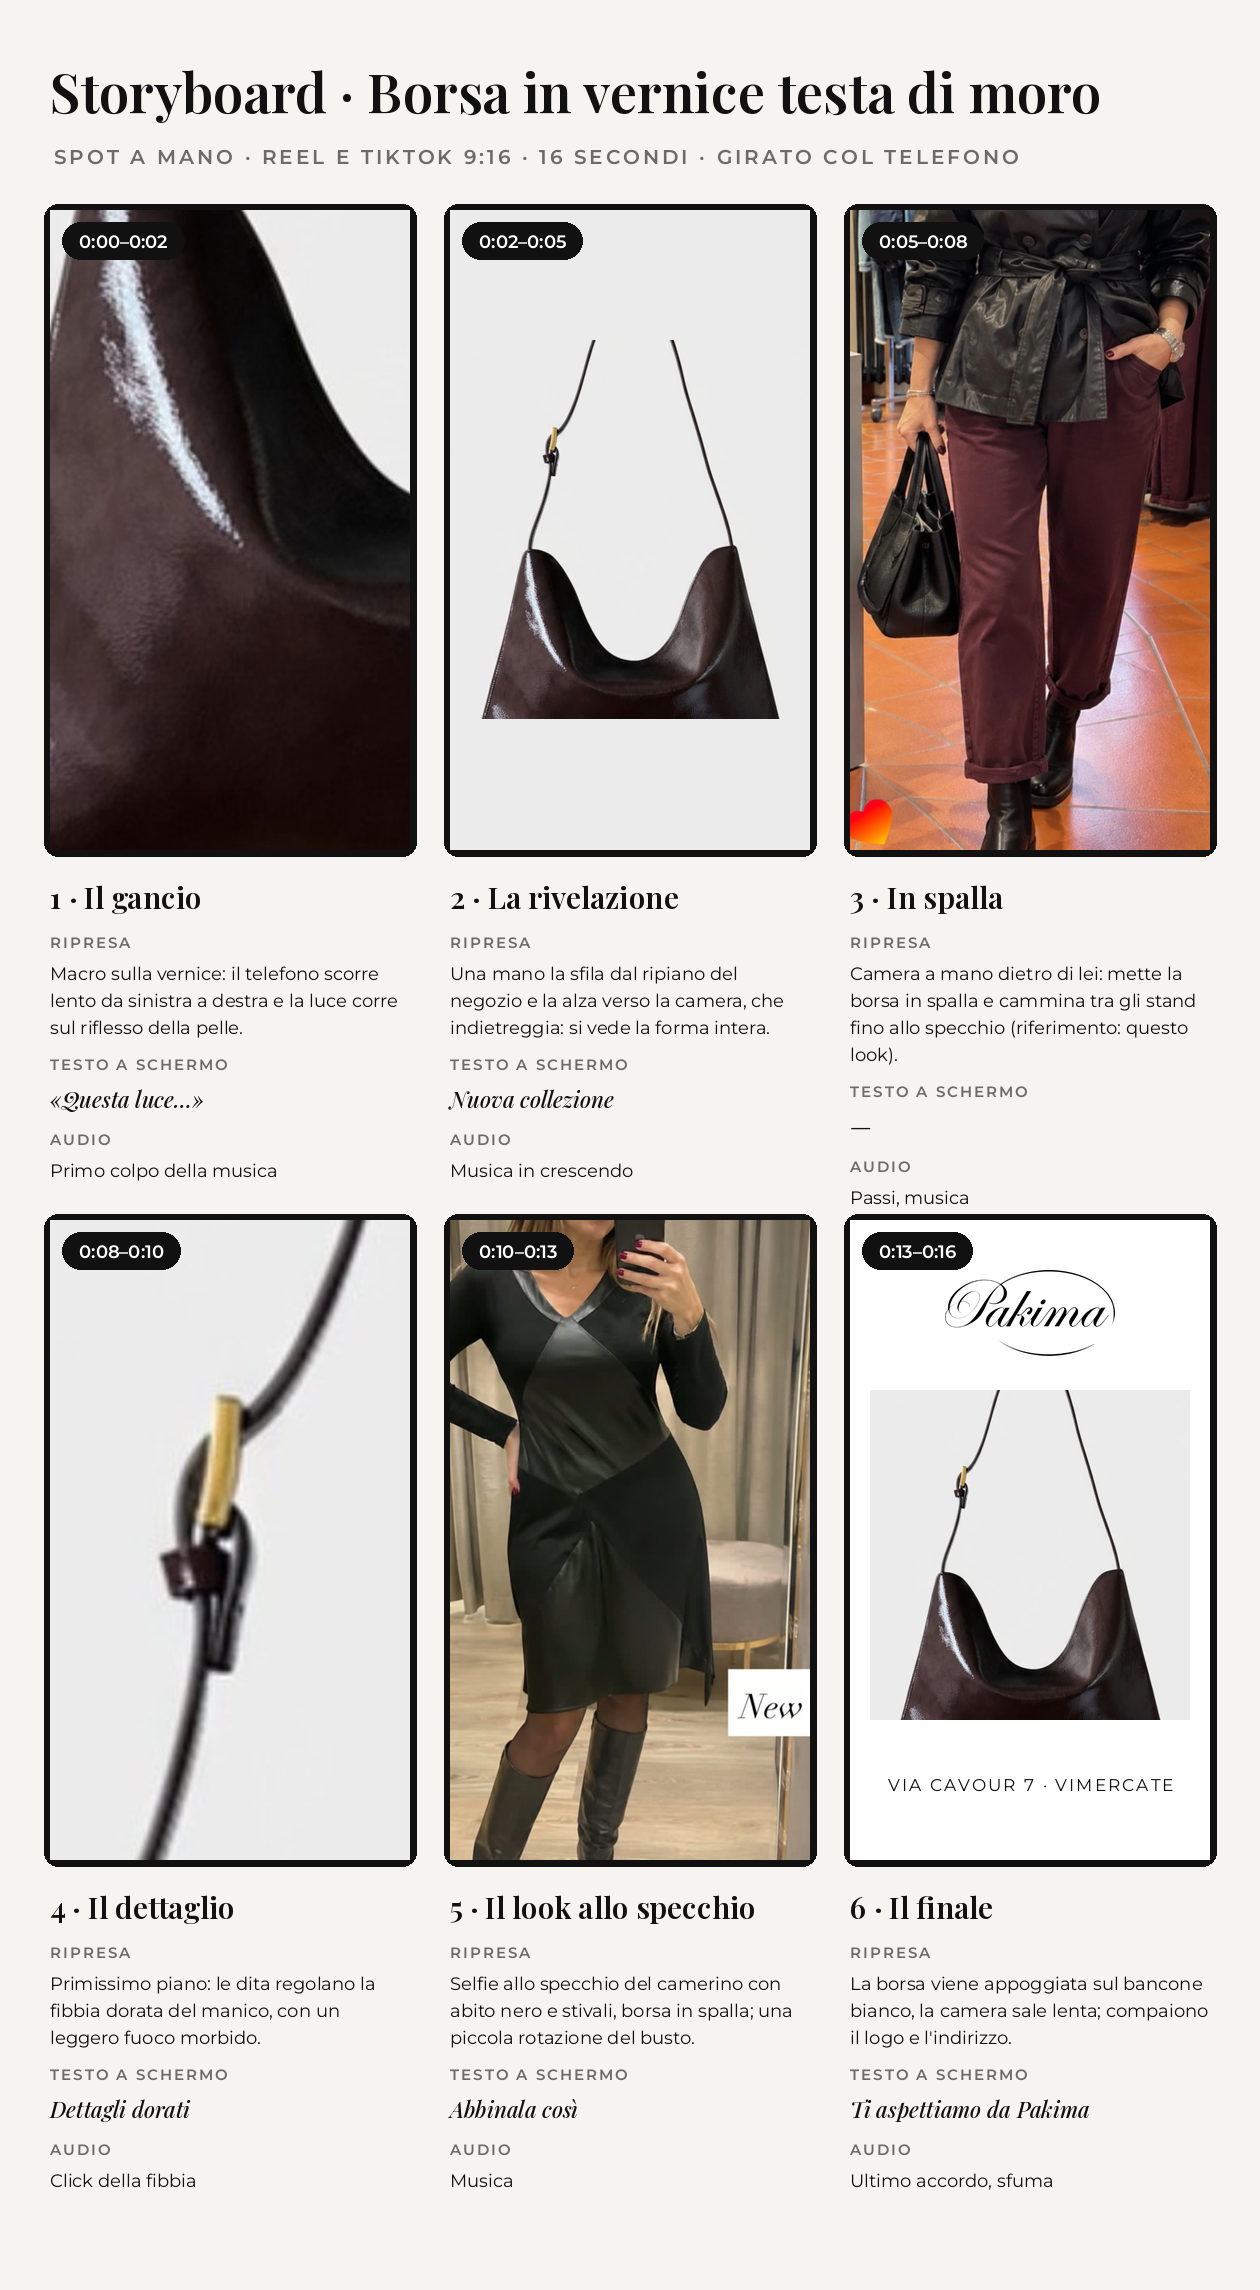
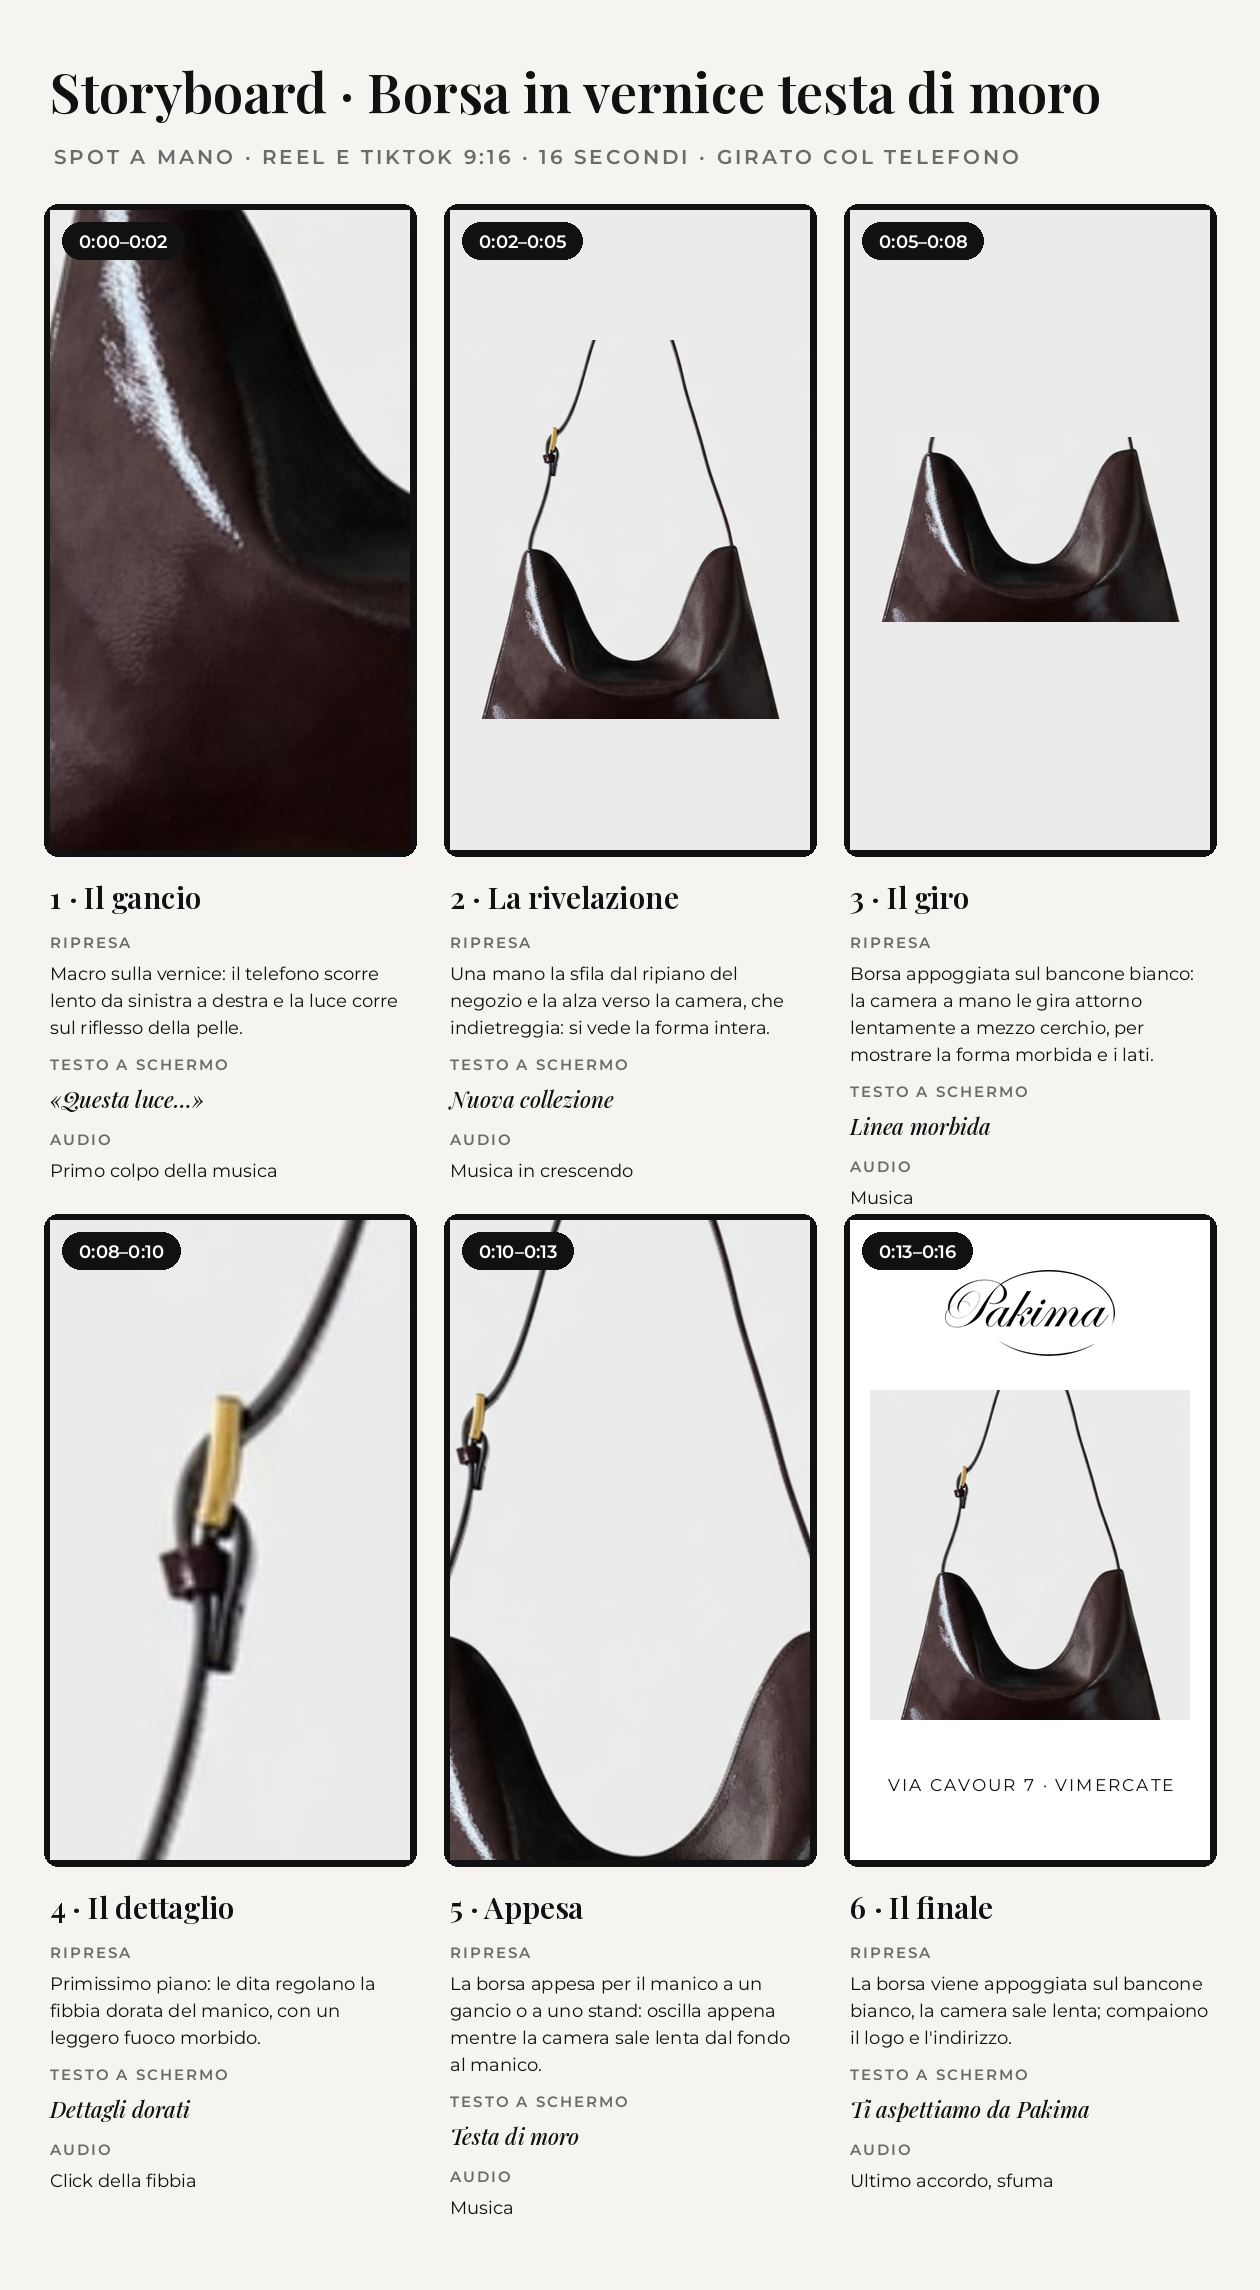
Storyboard borsa: solo il prodotto, senza persone
Claude-Session: https://claude.ai/code/session_01TRyadBTg1JbKFooPCfPKjK

diff --git a/output/2026-11-25-storyboard-borsa/crea.py b/output/2026-11-25-storyboard-borsa/crea.py
@@ -55,20 +55,18 @@ SCENE = [
          ripresa="Una mano la sfila dal ripiano del negozio e la alza verso la camera, "
                  "che indietreggia: si vede la forma intera.",
          testo="Nuova collezione", audio="Musica in crescendo"),
-    dict(t="0:05–0:08", titolo="3 · In spalla", img=ritaglio(RADICE / "foto/outfit/trench-pelle-pantalone-bordeaux.jpg",
-                                                            (0.15, 0.25, 0.85, 0.95)),
-         ripresa="Camera a mano dietro di lei: mette la borsa in spalla e cammina tra gli "
-                 "stand fino allo specchio (riferimento: questo look).",
-         testo="—", audio="Passi, musica"),
+    dict(t="0:05–0:08", titolo="3 · Il giro", img=ritaglio(BORSA, (0.14, 0.5, 0.86, 0.73), contieni=True),
+         ripresa="Borsa appoggiata sul bancone bianco: la camera a mano le gira attorno lentamente "
+                 "a mezzo cerchio, per mostrare la forma morbida e i lati.",
+         testo="Linea morbida", audio="Musica"),
     dict(t="0:08–0:10", titolo="4 · Il dettaglio", img=ritaglio(BORSA, (0.28, 0.33, 0.42, 0.47)),
          ripresa="Primissimo piano: le dita regolano la fibbia dorata del manico, "
                  "con un leggero fuoco morbido.",
          testo="Dettagli dorati", audio="Click della fibbia"),
-    dict(t="0:10–0:13", titolo="5 · Il look allo specchio",
-         img=ritaglio(RADICE / "foto/outfit/abito-nero-ecopelle-stivali.jpg", (0.0, 0.05, 1.0, 0.95)),
-         ripresa="Selfie allo specchio del camerino con abito nero e stivali, borsa in spalla; "
-                 "una piccola rotazione del busto.",
-         testo="Abbinala così", audio="Musica"),
+    dict(t="0:10–0:13", titolo="5 · Appesa", img=ritaglio(BORSA, (0.2, 0.26, 0.8, 0.66)),
+         ripresa="La borsa appesa per il manico a un gancio o a uno stand: oscilla appena mentre "
+                 "la camera sale lenta dal fondo al manico.",
+         testo="Testa di moro", audio="Musica"),
     dict(t="0:13–0:16", titolo="6 · Il finale", img=finale(),
          ripresa="La borsa viene appoggiata sul bancone bianco, la camera sale lenta; "
                  "compaiono il logo e l'indirizzo.",
